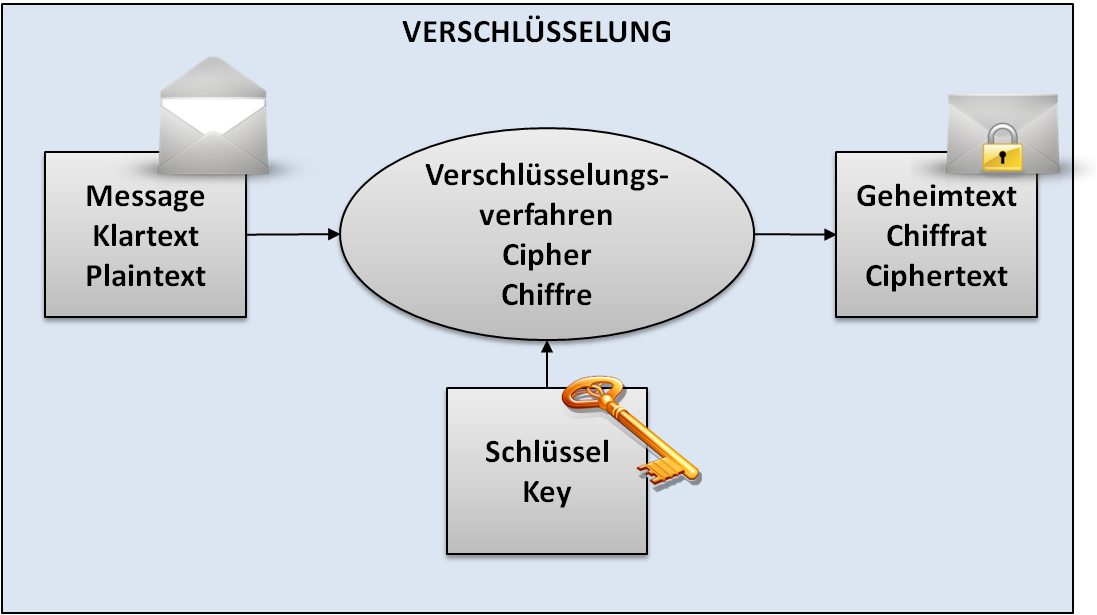
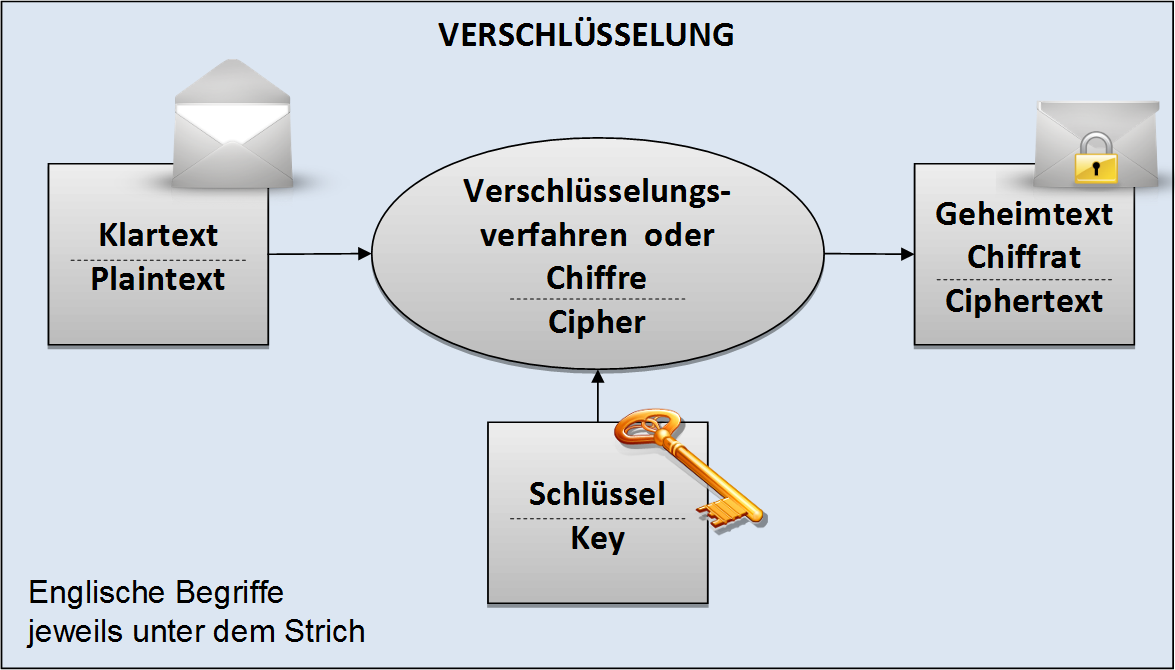
CTB: Minor correction of a picture and of needless newlines in footnotes.

diff --git a/script/en/chapters/numbertheory.tex b/script/en/chapters/numbertheory.tex
@@ -3732,7 +3732,7 @@ chapter~\ref{nt:AppArith3a2} ``\nameref{nt:AppArith3a2}''.
 \footnotetext{%
     \index{SageMath}%
     \index{Nguyen, Minh Van }%
-    Nguyen wrote a short, didactically very clear article about some basic number theory
+    Nguyen wrote a short, didactically very clear article about basic number theory
     and SageMath usage \cite{Nguyen2009a}.
 }
 \label{rsaconcrete}\index{RSA}
@@ -3973,7 +3973,9 @@ In variant 2 the block formation is done in two different sub-variants: (4./5. a
 \end{tabular} } % \tt
 
 \noindent {\bf 4. Encryption:}\\
-Blocks are formed\footnote{\vskip +3 pt \tt \begin{tabular}{ll@{ }l@{ }l}
+Blocks are formed\footnote{%
+%%% \vskip +3 pt \tt \begin{tabular}{ll@{ }l@{ }l}  %%% BE_Empty line doesn't look well
+Forming a block:\\ \tt \begin{tabular}{ll@{ }l@{ }l}
 single character& binary representation  && decimal representation\\
 01010010, 82 & 01010010 01010011 & = &21075\\
 01010011, 83 &\\
@@ -3985,9 +3987,9 @@ single character& binary representation  && decimal representation\\
 01101011, 107\\
 01110011, 115 & 01110011 00100001 & = &29473\\
 00100001, 33: 
-\end{tabular}} (each ASCII character is encoded into a 8 digit binary number below):\\
+\end{tabular}} (each ASCII character is encoded into a 8 digit binary number and two binary numbers are joined):\\
 {\tt 21075 16672 30575 29291 29473}\footnote{%
-Using CT1\index{CT1} you can solve this with the menu {\bf Indiv. Procedures
+In CT1\index{CT1} you can solve this with the menu {\bf Indiv. Procedures
 \textbackslash{} RSA Cryptosystem \textbackslash{} RSA Demonstration} 
 with the following options: all 256 ASCII characters, b-adic,
 block length\index{block length} 2 and decimal representation.
